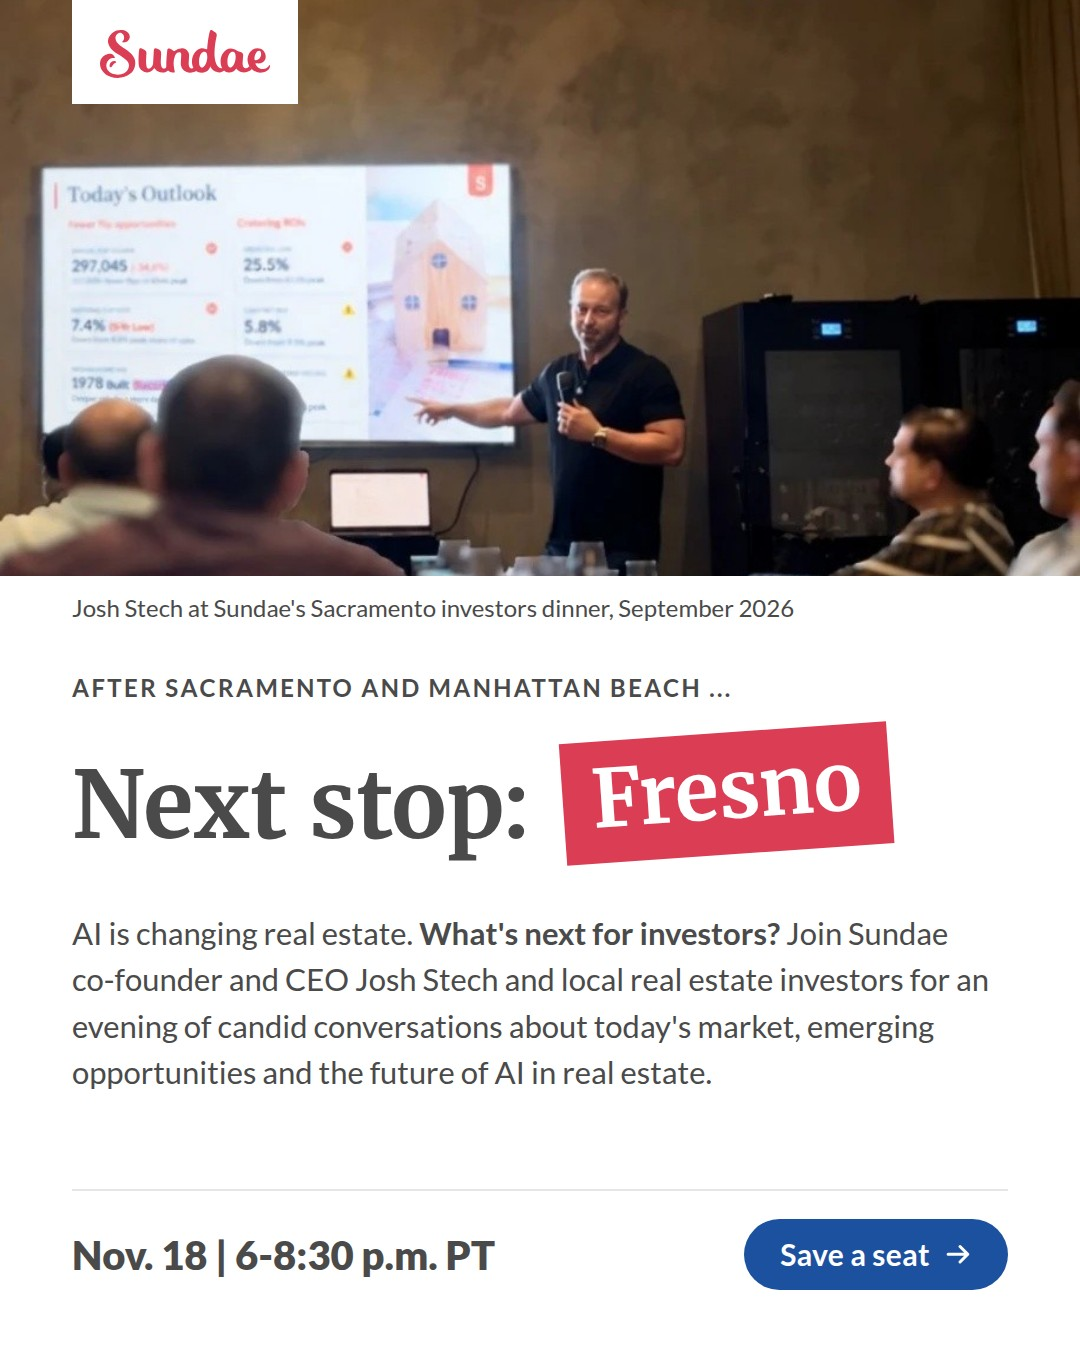
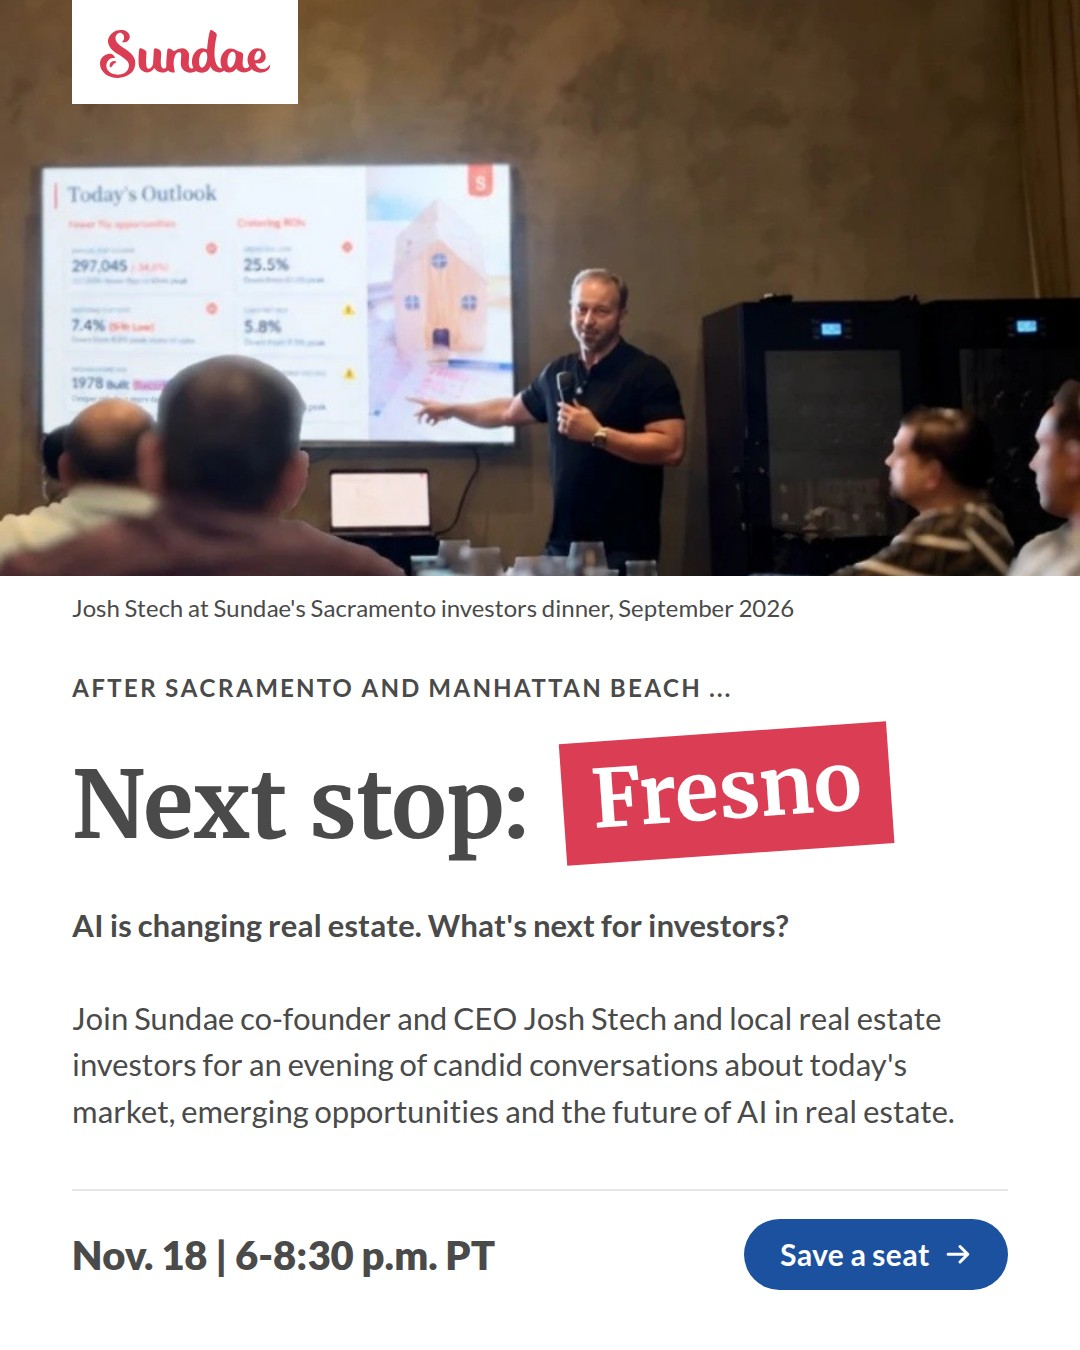
Creative change 20261022-165818-6ymm: events/fresno-2026-11-18/images/06 (done)

Changed region(s): [[0.0611, 0.6533, 0.9167, 0.84]]

diff --git a/engine/creatives/events/fresno-2026-11-18/images/06.html b/engine/creatives/events/fresno-2026-11-18/images/06.html
@@ -9,6 +9,6 @@ html,body{width:1080px;height:1350px} .canvas{width:1080px;height:1350px} </styl
   <div style="display:flex;align-items:center;gap:34px;margin-top:40px">
     <h1 class="h" style="font-size:92px;white-space:nowrap">Next stop:</h1>
     <span class="box red serif tilt" style="font-size:80px;padding:.12em .36em .2em;white-space:nowrap">Fresno</span></div>
-  <p class="body" style="font-size:31px;line-height:1.5;margin-top:44px;max-width:920px">AI is changing real estate. <strong>What's next for investors?</strong> Join Sundae co-founder and CEO Josh Stech and local real estate investors for an evening of candid conversations about today's market, emerging opportunities and the future of AI in real estate.</p></div>
+  <p class="body" style="font-size:31px;line-height:1.5;margin-top:36px;max-width:920px"><strong>AI is changing real estate. What's next for investors?</strong><br><br>Join Sundae co-founder and CEO Josh Stech and local real estate investors for an evening of candid conversations about today's market, emerging opportunities and the future of AI in real estate.</p></div>
 <div style="position:absolute;left:72px;right:72px;bottom:60px;display:flex;justify-content:space-between;align-items:center;border-top:2px solid var(--gray);padding-top:28px">
   <div class="h-lato" style="font-size:40px;white-space:nowrap">Nov. 18 | 6-8:30 p.m. PT</div><span class="btn" style="font-size:30px">Save a seat<svg class="arr" viewBox="0 0 24 24" aria-hidden="true"><path d="M3.5 12h16.5M13.5 5.5 20 12l-6.5 6.5" fill="none" stroke="currentColor" stroke-width="2.6" stroke-linecap="round" stroke-linejoin="round"/></svg></span></div></div></body></html>
